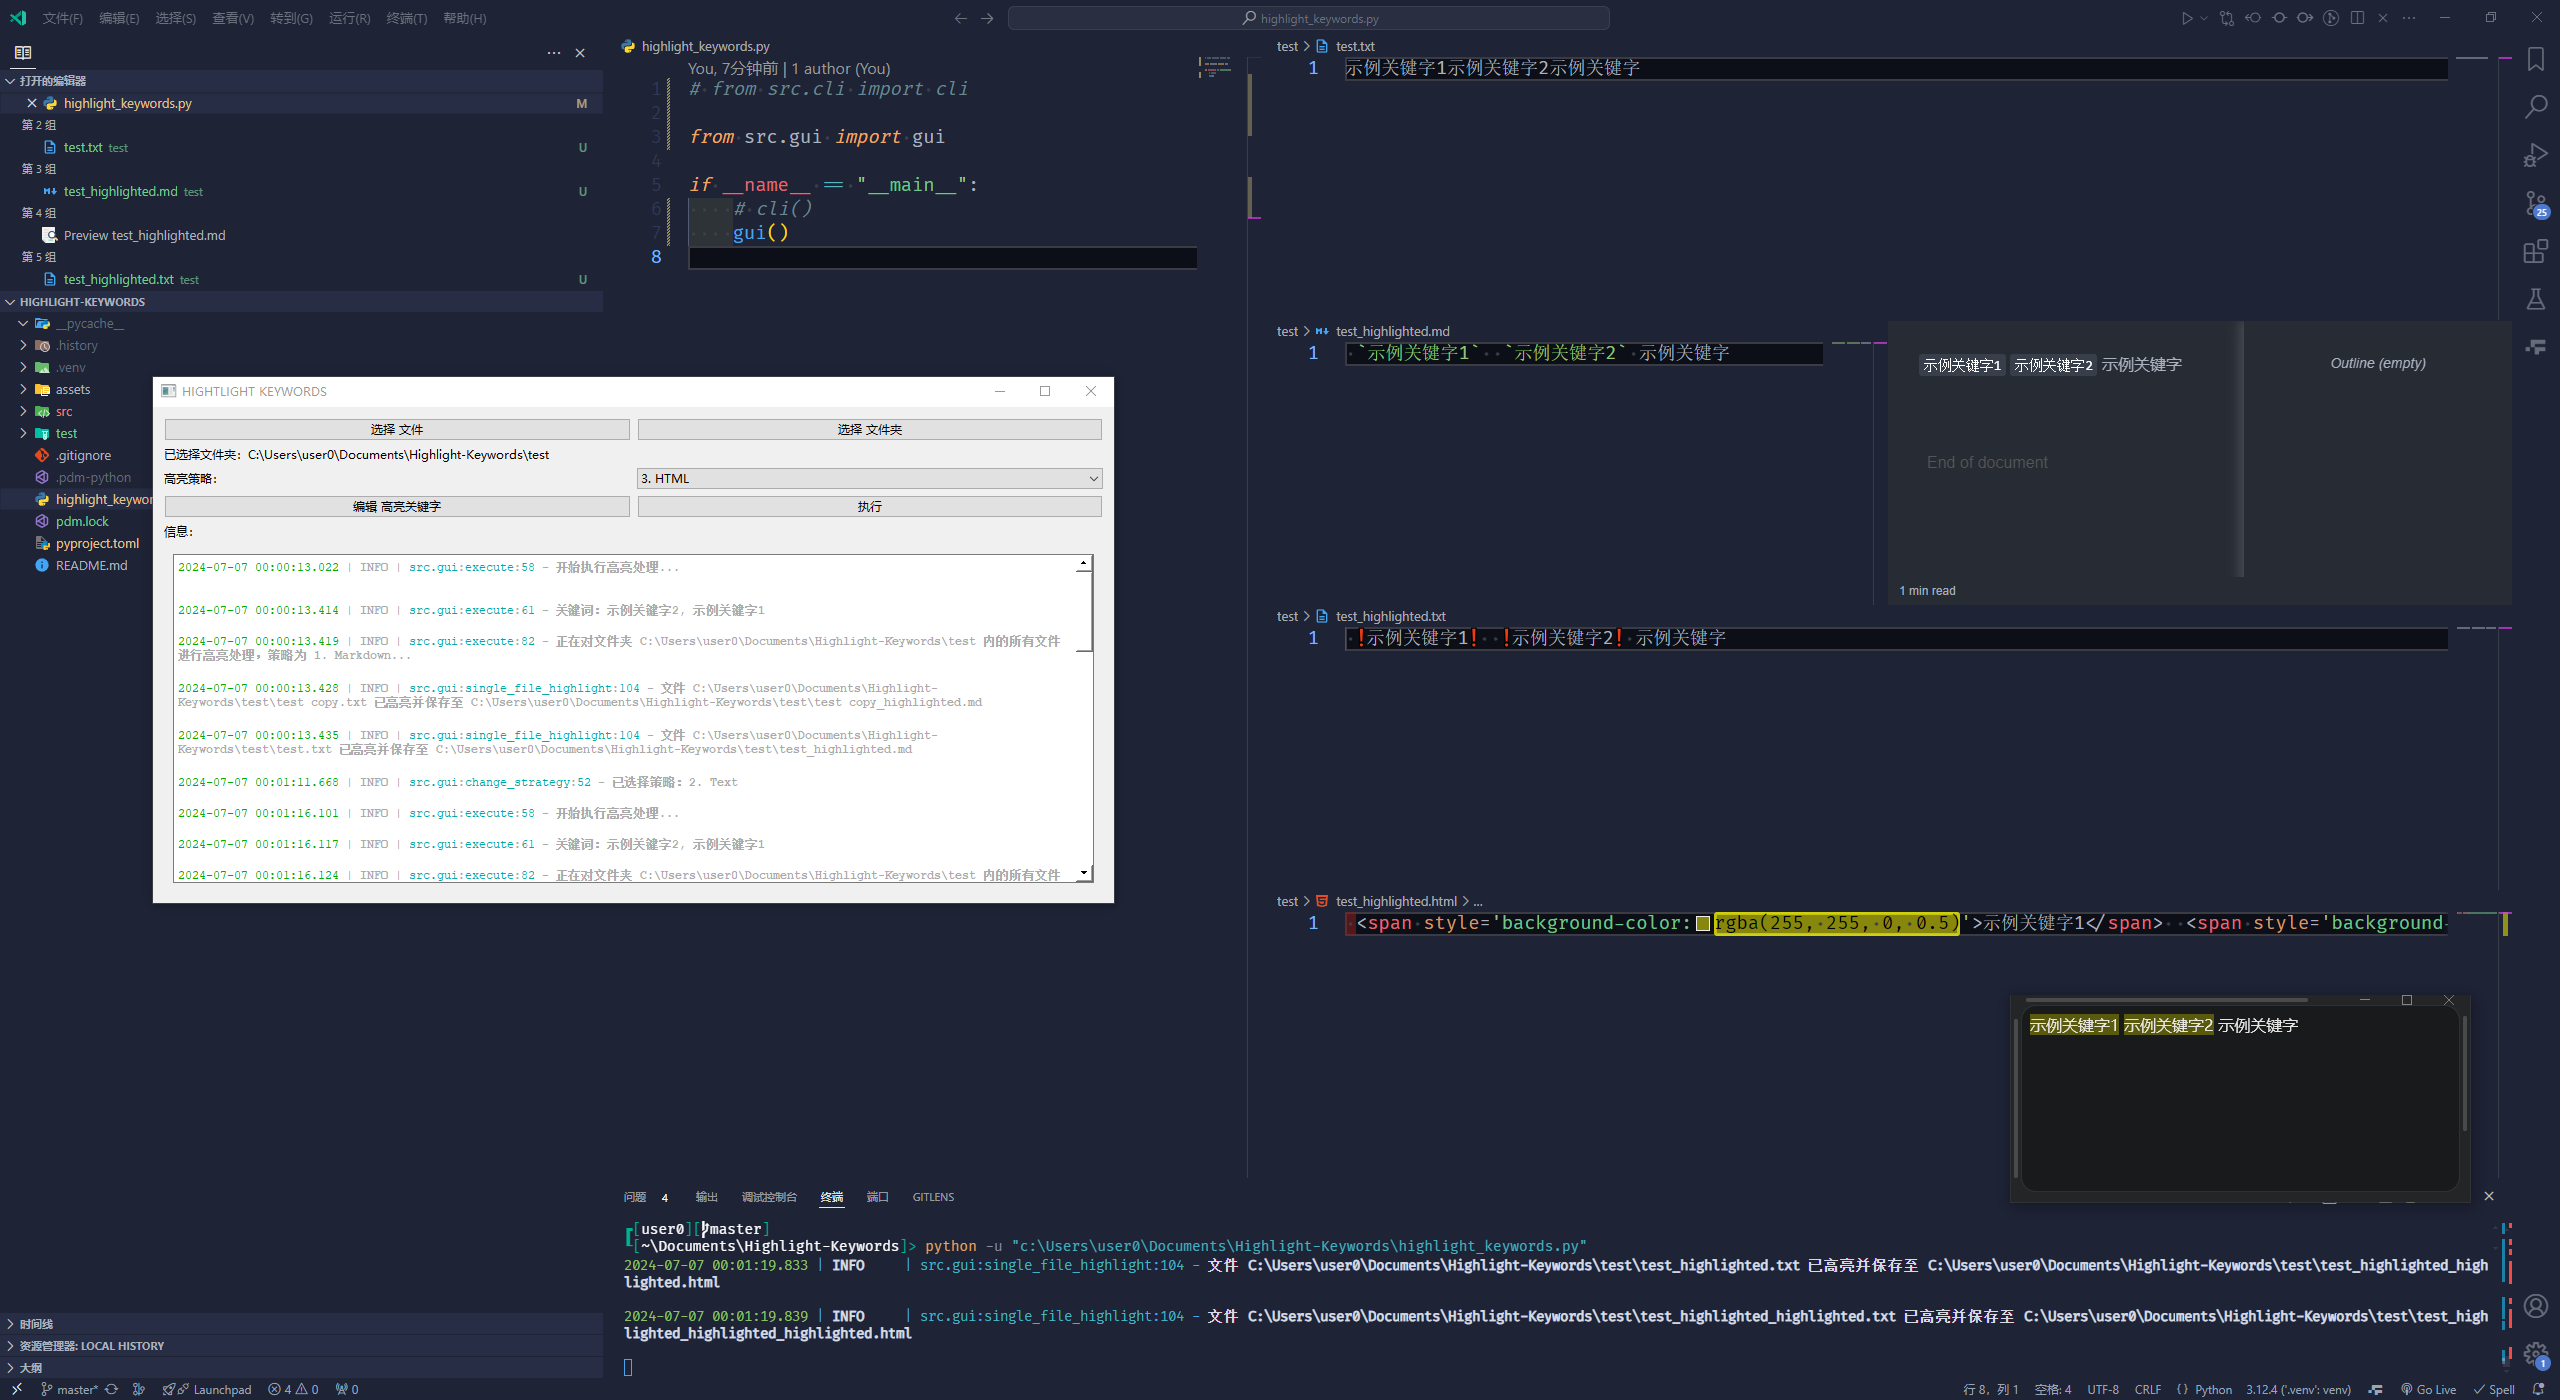
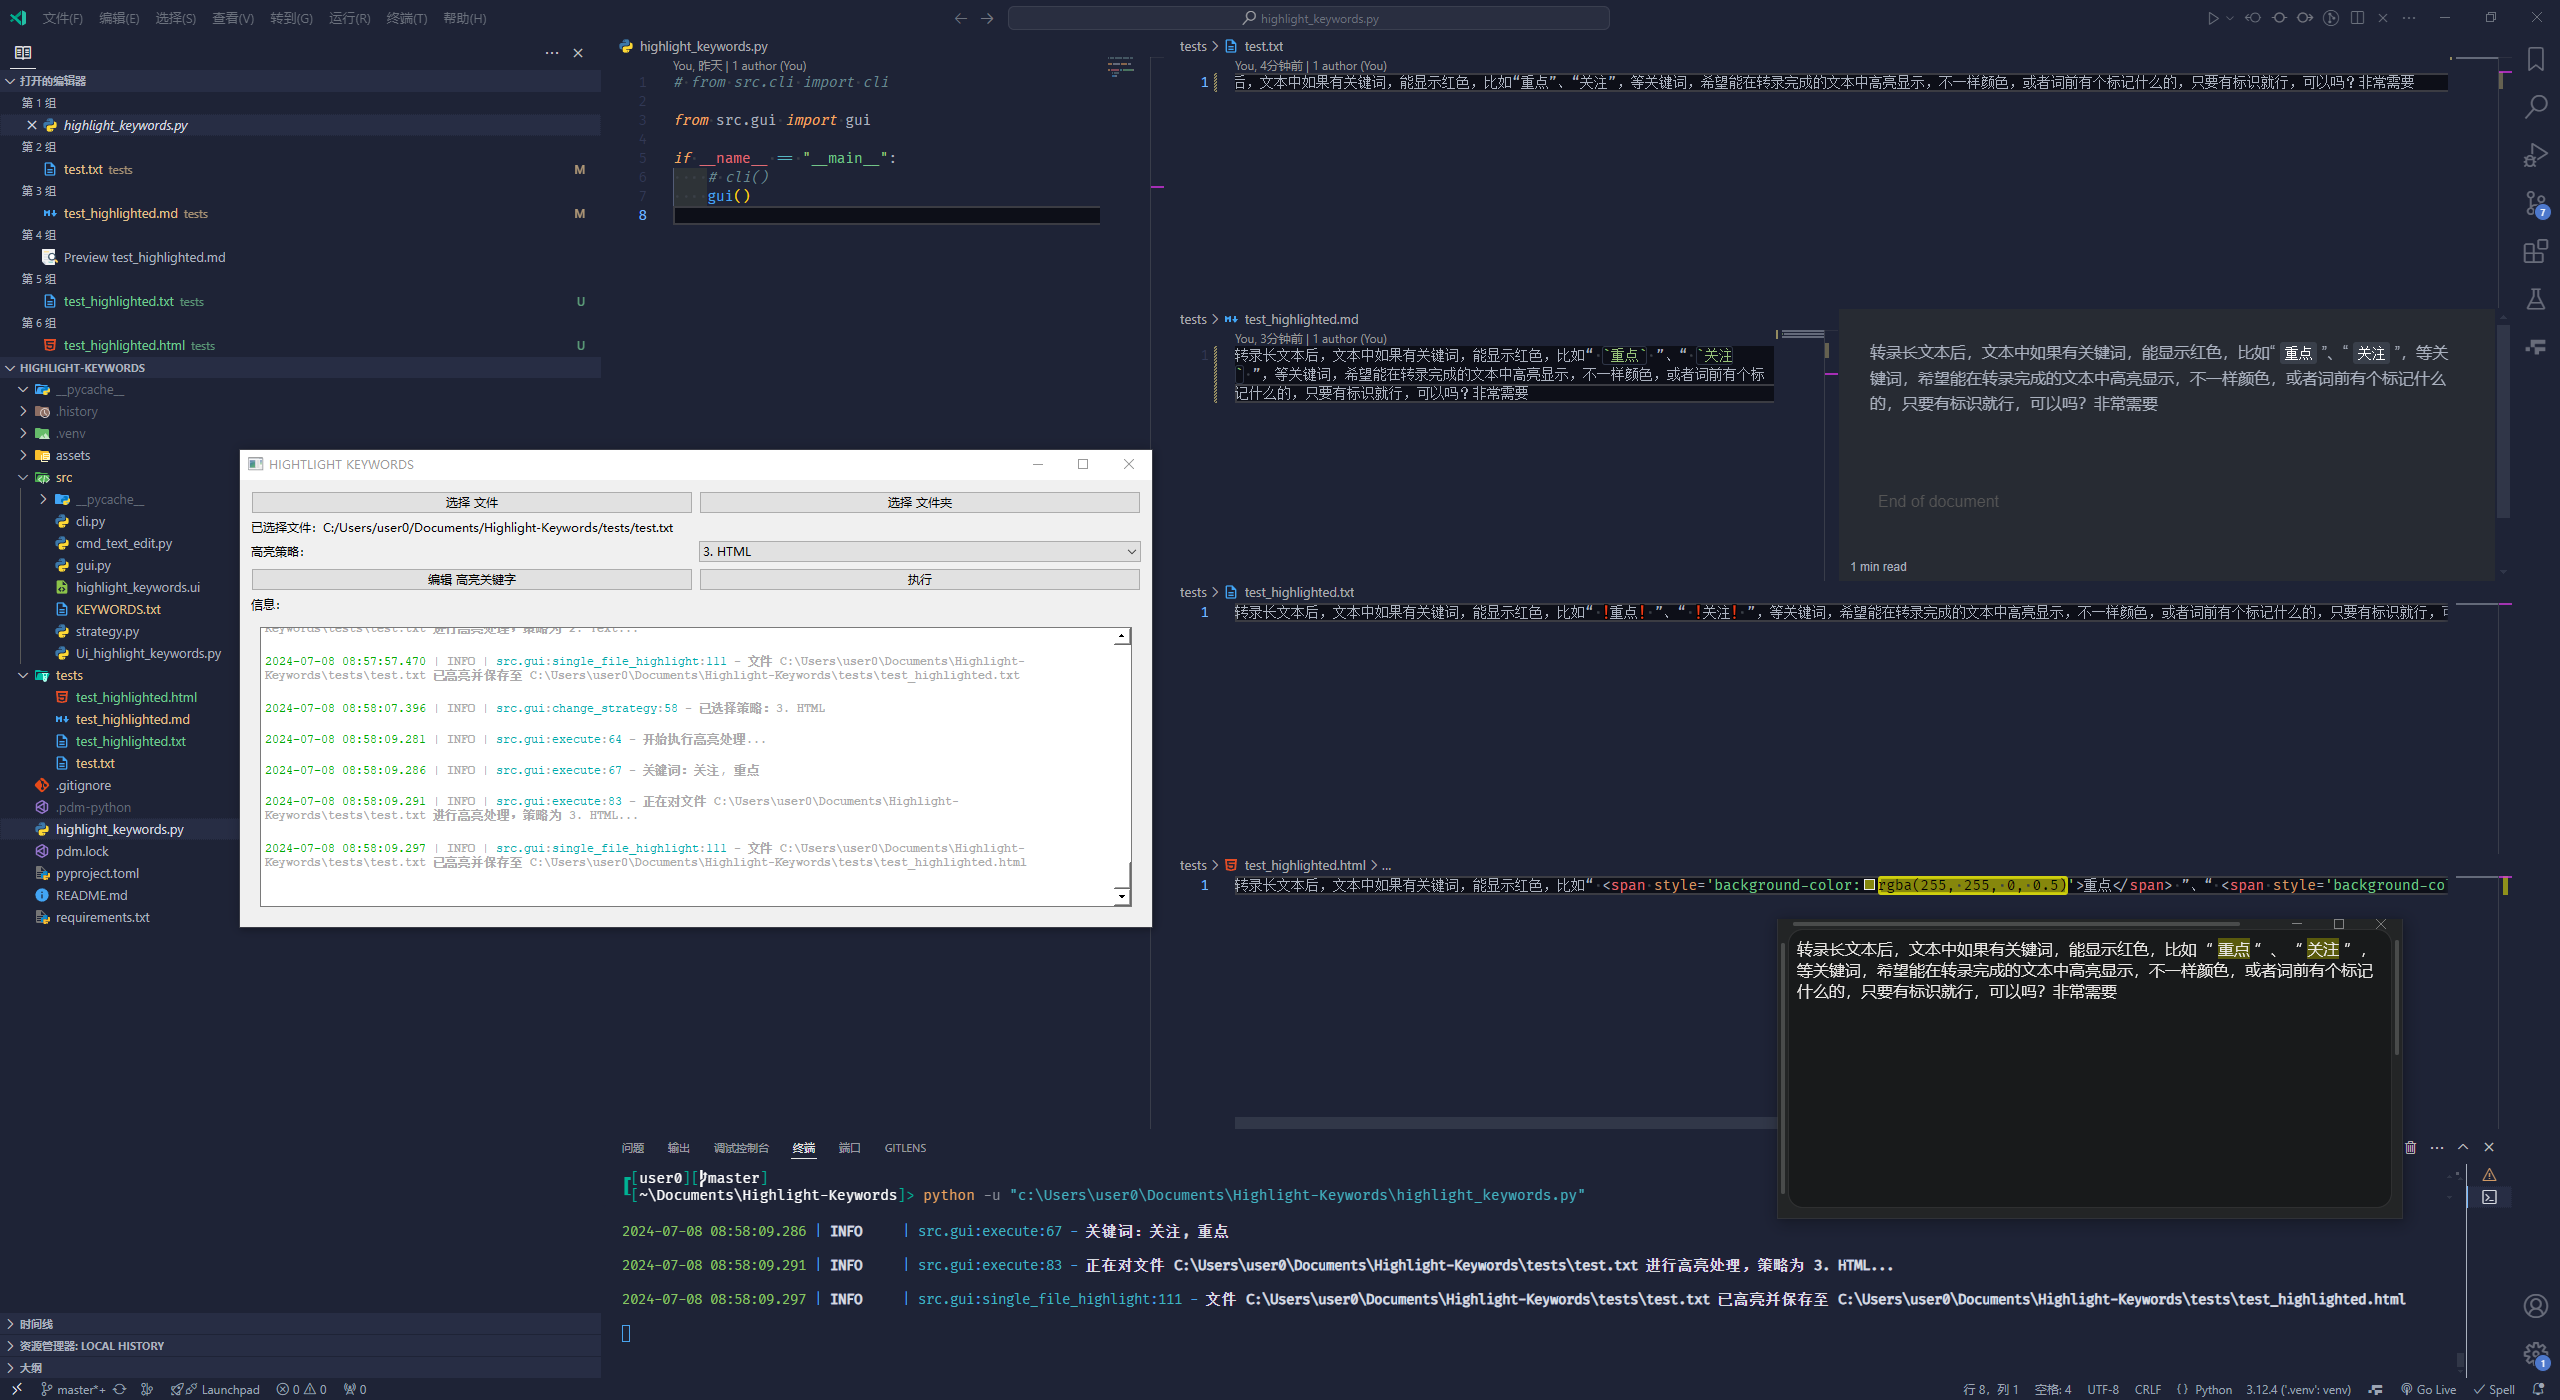
Update tests and demo.png

diff --git a/tests/test_highlighted.html b/tests/test_highlighted.html
@@ -1,0 +1,1 @@
+转录长文本后，文本中如果有关键词，能显示红色，比如“ <span style='background-color:rgba(255, 255, 0, 0.5)'>重点</span> ”、“ <span style='background-color:rgba(255, 255, 0, 0.5)'>关注</span> ”，等关键词，希望能在转录完成的文本中高亮显示，不一样颜色，或者词前有个标记什么的，只要有标识就行，可以吗？非常需要

diff --git a/tests/test_highlighted.md b/tests/test_highlighted.md
@@ -1,0 +1,1 @@
+转录长文本后，文本中如果有关键词，能显示红色，比如“ `重点` ”、“ `关注` ”，等关键词，希望能在转录完成的文本中高亮显示，不一样颜色，或者词前有个标记什么的，只要有标识就行，可以吗？非常需要
